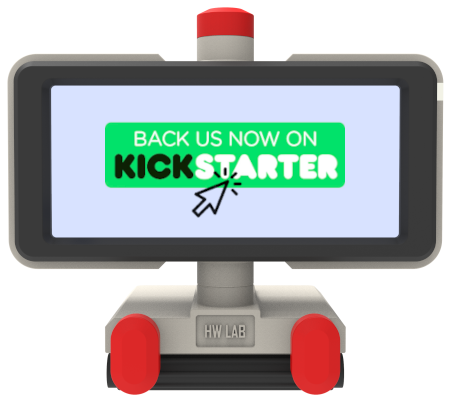
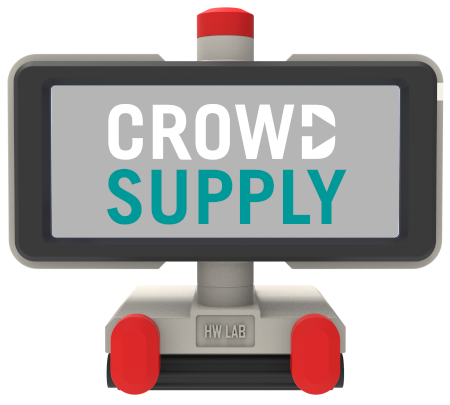
Update Crowdfunding campaign text.

Changed region(s): [[0.0933, 0.2074, 0.9022, 0.5926]]

diff --git a/index.html b/index.html
@@ -6,9 +6,9 @@
   <meta http-equiv="X-UA-Compatible" content="IE=edge" />
   <meta name="viewport" content="width=device-width, initial-scale=1.0">
   <meta name="keywords"
-    content="WebScreen, notifications, productivity, gaming, secondary display, AMOLED, reminders, customizable, tech gadgets, digital experience, Kickstarter">
+    content="WebScreen, notifications, productivity, gaming, secondary display, AMOLED, reminders, customizable, tech gadgets, digital experience, Crowdsupply">
   <meta name="description"
-    content="Meet WebScreen, your new sidekick that keeps you in the loop without breaking your focus. Whether you're deep in a game, streaming, or working hard, WebScreen brings you the updates that matter. Join us on Kickstarter and let's level up your setup together!">
+    content="Meet WebScreen, your new sidekick that keeps you in the loop without breaking your focus. Whether you're deep in a game, streaming, or working hard, WebScreen brings you the updates that matter. Join us on Crowdsupply and let's level up your setup together!">
   <title>WebScreen - Stay Connected, Stay in the Game</title>
   <link rel="shortcut icon" href="assets/images/favicon.ico" type="image/x-icon">
   <link rel="stylesheet" href="https://stackpath.bootstrapcdn.com/bootstrap/4.3.1/css/bootstrap.min.css">
@@ -62,7 +62,7 @@
                   <a class="nav-link" href="#faq">FAQ</a>
                 </li>
                 <li class="nav-item">
-                  <a class="nav-link" href="#subscribe">Kickstarter</a>
+                  <a class="nav-link" href="#subscribe">Crowd Supply</a>
                 </li>
                 <li class="nav-item">
                   <a class="nav-link" href="#contact">Subscribe</a>
@@ -584,13 +584,13 @@
               <div class="panel-heading">
                 <h4 data-toggle="collapse" data-target="#eight" aria-expanded="false" aria-controls="eight"
                   class="panel-title">
-                  What's the deal with the Kickstarter campaign?
+                  What's the deal with the Crowd Supply campaign?
                 </h4>
               </div>
               <div id="eight" class="panel-collapse collapse" aria-labelledby="eight" data-parent="#accordion-1">
                 <div class="panel-body">
                   <p>
-                    We're heading to Kickstarter to bring WebScreen to life! Your support helps us move from prototypes to the real deal.
+                    We're heading to Crowdsupply.com to bring WebScreen to life! Your support helps us move from prototypes to the real deal.
                   </p>
                 </div>
               </div>
@@ -672,10 +672,10 @@
                     <div class="col-lg-6 d-flex">
                       <div class="right-area">
                         <h4 class="name">
-                          We're Launching on Kickstarter!
+                          We're Launching on Crowd Supply!
                         </h4>
                         <p class="description">
-                          We're super excited to bring WebScreen to Kickstarter! Your support helps us make this dream a reality.
+                          We're super excited to bring WebScreen to Crowdsupply! Your support helps us make this dream a reality.
                         </p>
                         <p>🚀 The countdown is on—let's do this together!</p>
                         <div class="deal-counter">
@@ -700,7 +700,7 @@
                           Your Support Means Everything
                         </h4>
                         <p class="description">
-                          We're breaking new ground with WebScreen, and we can't do it without you. Back us on Kickstarter, and let's revolutionize how we connect with our digital worlds.
+                          We're breaking new ground with WebScreen, and we can't do it without you. Back us on Crowdsupply, and let's revolutionize how we connect with our digital worlds.
                         </p>
                         <p>❤ Join us and be part of something amazing.</p>
                       </div>
@@ -723,7 +723,7 @@
           <div class="section-title">
             <div class="section-title extra">
               <p>
-                Want to stay updated and be part of our journey? Sign up below to be the first to know when we go live on Kickstarter, get exclusive previews, and snag early bird deals!
+                Want to stay updated and be part of our journey? Sign up below to be the first to know when we go live on Crowdsupply, get exclusive previews, and snag early bird deals!
               </p>
             </div>
             <div class="newsletter-form-area">
